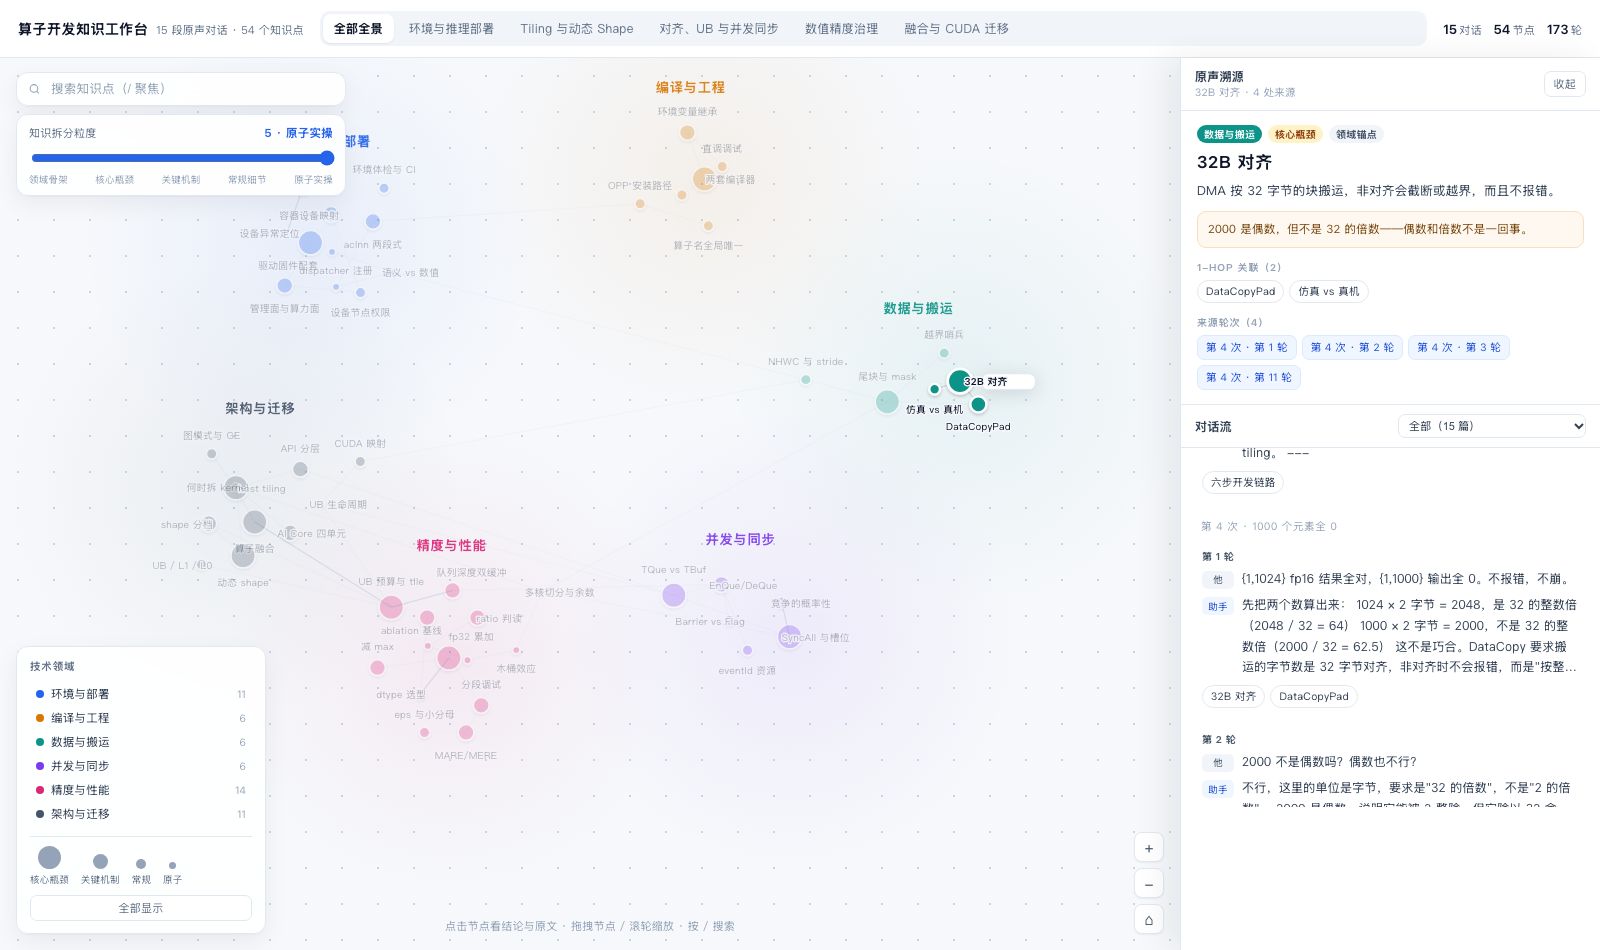
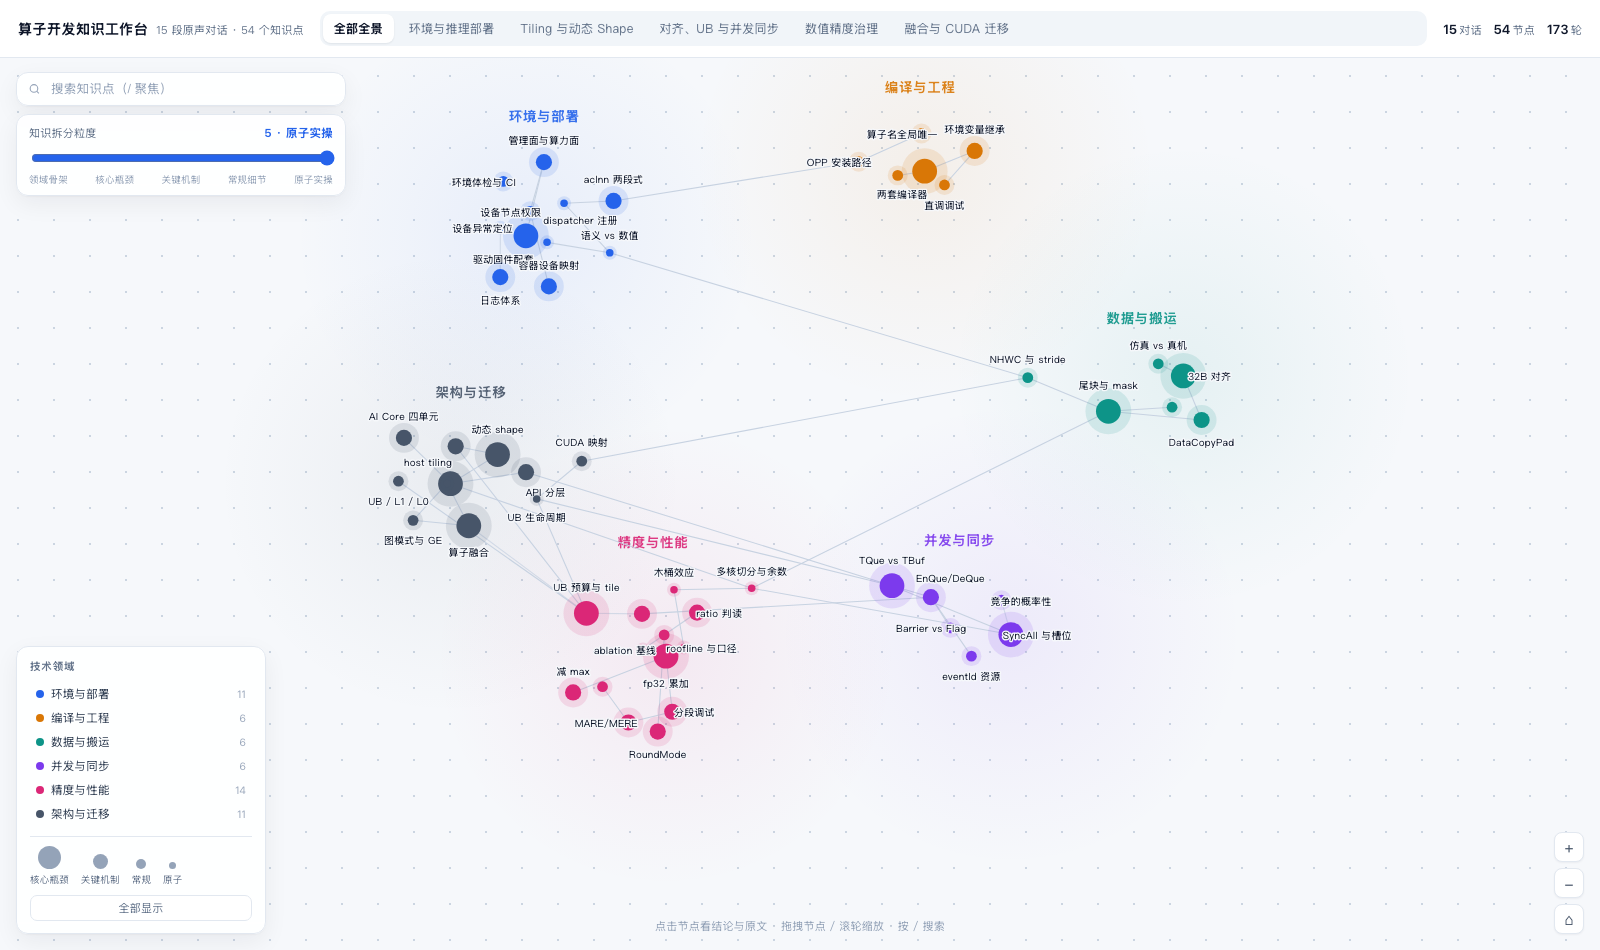
style: 节点去掉白描边，改为同色半透明清晰边界光晕

diff --git a/cann-dashboard/算子知识工作台.html b/cann-dashboard/算子知识工作台.html
@@ -88,7 +88,10 @@
   .edge.trade{stroke:#F0A8B4;stroke-dasharray:4 3}
   .edge.agg{stroke-opacity:.75}
   .node{cursor:pointer}
-  .node circle{stroke:#fff;stroke-width:1.6}
+  .node .core{stroke:none}
+  .node .halo{opacity:.13;transition:opacity .18s}
+  .node:hover .halo,.node.sel .halo{opacity:.28}
+  .node.nb .halo{opacity:.2}
   .node text{font-size:9.2px;fill:#0F172A;text-anchor:middle;pointer-events:none;
     paint-order:stroke;stroke:var(--bg);stroke-width:2.6px;stroke-linejoin:round}
   .lblbg{fill:#fff;stroke:#E2E8F0;stroke-width:1;rx:6;opacity:0;pointer-events:none;
@@ -96,8 +99,8 @@
   .node:hover .lblbg,.node.sel .lblbg{opacity:1}
   .node:hover text,.node.sel text{font-weight:700}
   .node.dim{opacity:.26}
-  .node.nb circle{stroke:#fff;stroke-width:2.2}
-  .node.sel circle{stroke:#fff;stroke-width:2.6}
+  .node.nb .core{stroke:none}
+  .node.sel .core{stroke:none}
   .eglabel{font-size:9px;fill:#64748B;text-anchor:middle;pointer-events:none;
     paint-order:stroke;stroke:var(--bg);stroke-width:2.4px}
 
@@ -455,9 +458,15 @@ function buildNodes(){
   NODES.forEach(n=>{
     const el=document.createElementNS(NS,'g');
     el.setAttribute('class','node'); el.dataset.id=n.id;
+    const halo=document.createElementNS(NS,'circle');
+    halo.setAttribute('class','halo');
+    halo.setAttribute('r',R[n.w]*1.85);
+    halo.setAttribute('fill',domById[n.dom].color);
+    el.appendChild(halo);
+
     const c=document.createElementNS(NS,'circle');
+    c.setAttribute('class','core');
     c.setAttribute('r',R[n.w]); c.setAttribute('fill',domById[n.dom].color);
-    c.setAttribute('filter','url(#softshadow)');
     el.appendChild(c);
     const bg=document.createElementNS(NS,'rect');
     bg.setAttribute('class','lblbg'); bg.setAttribute('height',15); bg.setAttribute('rx',6);
